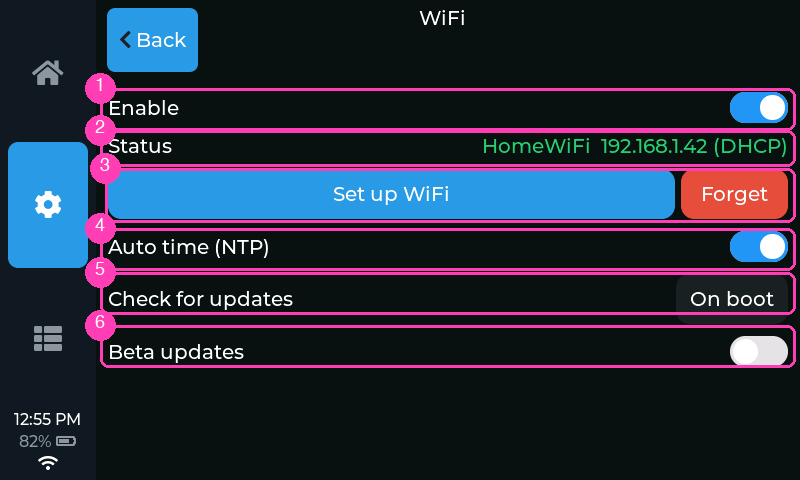
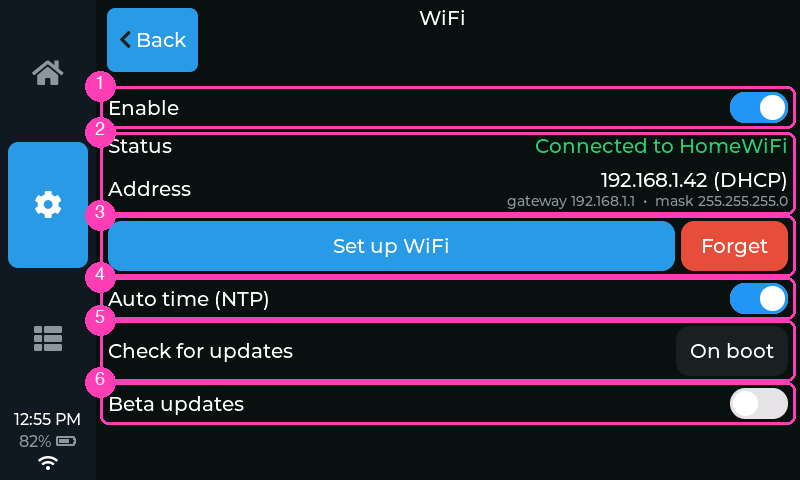
wifi page: Status is the state, a new Address row holds IP, gateway and mask
"HomeWiFi  192.168.1.42 (DHCP)" plus a second line of gateway/mask read as
strings lumped together (owner, bench, 2026-09-30). Now: Status says
"Connected to <ssid>" (or Off / Connecting / Connection failed) and an
Address row, shown only while connected, carries "<ip> (DHCP|static)" with
the gateway and mask beneath in the small muted font — for DHCP too, so it
says what the router handed out. One row more than before; the page still
clears the bottom at 800x480. Manual, changelog and the doc image's callouts
follow.

Changed region(s): [[0.0938, 0.25, 1.0, 0.9062], [0.125, 0.1562, 1.0, 0.1875]]

diff --git a/src/ui/app.cpp b/src/ui/app.cpp
@@ -4253,8 +4253,9 @@ void App::update_settings_view() {
         else lv_obj_remove_state(settings_.wifi_switch, LV_STATE_CHECKED);
       }
     }
-    char buf[128];
+    char buf[64];
     uint32_t color = ui::theme::muted();
+    const bool connected = network_->status() == core::NetState::Connected;
     switch (network_->status()) {
       case core::NetState::Disabled:
         std::snprintf(buf, sizeof(buf), "Off");
@@ -4263,16 +4264,7 @@ void App::update_settings_view() {
         std::snprintf(buf, sizeof(buf), "Connecting" LV_SYMBOL_WIFI);
         break;
       case core::NetState::Connected:
-        // How the address was assigned, and for a static one the gateway and
-        // mask on a second line — the portal is the only place they're set,
-        // so this is where a wrong entry shows up.
-        if (network_->static_ip()) {
-          std::snprintf(buf, sizeof(buf), "%s  %s (static)\ngateway %s  mask %s",
-                        network_->ssid(), network_->ip(), network_->gateway(),
-                        network_->netmask());
-        } else {
-          std::snprintf(buf, sizeof(buf), "%s  %s (DHCP)", network_->ssid(), network_->ip());
-        }
+        std::snprintf(buf, sizeof(buf), "Connected to %s", network_->ssid());
         color = ui::theme::ok();
         break;
       case core::NetState::Failed:
@@ -4282,6 +4274,23 @@ void App::update_settings_view() {
     }
     ui::set_text(settings_.wifi_status, buf);
     ui::set_text_color(settings_.wifi_status, color);
+    // Address row: IP + how it was assigned, gateway and mask beneath. The
+    // portal is the only place a static one is entered, so this is where a
+    // wrong entry shows up; for DHCP it says what the router handed out.
+    if (settings_.wifi_addr_row != nullptr) {
+      if (connected) {
+        char addr[48], sub[72];
+        std::snprintf(addr, sizeof(addr), "%s (%s)", network_->ip(),
+                      network_->static_ip() ? "static" : "DHCP");
+        std::snprintf(sub, sizeof(sub), "gateway %s  " LV_SYMBOL_BULLET "  mask %s",
+                      network_->gateway(), network_->netmask());
+        ui::set_text(settings_.wifi_addr_value, addr);
+        ui::set_text(settings_.wifi_addr_sub, sub);
+        lv_obj_remove_flag(settings_.wifi_addr_row, LV_OBJ_FLAG_HIDDEN);
+      } else {
+        lv_obj_add_flag(settings_.wifi_addr_row, LV_OBJ_FLAG_HIDDEN);
+      }
+    }
   }
 
   // Backup page: say what is actually on the card, and grey Restore when there

diff --git a/src/ui/settings_tab.cpp b/src/ui/settings_tab.cpp
@@ -386,10 +386,28 @@ void build_device_wifi_rows(lv_obj_t* page, const lv_font_t* text_font,
   out.wifi_status = lv_label_create(rst);
   lv_obj_set_style_text_color(out.wifi_status, lv_color_hex(ui::theme::muted()), 0);
   lv_obj_set_style_text_font(out.wifi_status, text_font, 0);
-  // Two lines for a static address (gateway + mask beneath), right-aligned so
-  // both lines hug the row's edge.
-  lv_obj_set_style_text_align(out.wifi_status, LV_TEXT_ALIGN_RIGHT, 0);
   lv_label_set_text(out.wifi_status, "Off");
+
+  // Address: the IP with how it was assigned, and beneath it, smaller and
+  // muted, the gateway and mask the network actually applied. Shown only
+  // while connected (App hides the row otherwise) so the page stays short.
+  out.wifi_addr_row = make_setting_row(page, "Address", text_font);
+  lv_obj_t* col = lv_obj_create(out.wifi_addr_row);
+  lv_obj_remove_style_all(col);
+  lv_obj_remove_flag(col, LV_OBJ_FLAG_SCROLLABLE);
+  lv_obj_set_size(col, LV_SIZE_CONTENT, LV_SIZE_CONTENT);
+  lv_obj_set_flex_flow(col, LV_FLEX_FLOW_COLUMN);
+  lv_obj_set_flex_align(col, LV_FLEX_ALIGN_CENTER, LV_FLEX_ALIGN_END, LV_FLEX_ALIGN_END);
+  lv_obj_set_style_pad_row(col, ui::dp(2), 0);
+  out.wifi_addr_value = lv_label_create(col);
+  lv_obj_set_style_text_color(out.wifi_addr_value, lv_color_hex(ui::theme::text()), 0);
+  lv_obj_set_style_text_font(out.wifi_addr_value, text_font, 0);
+  lv_label_set_text(out.wifi_addr_value, "");
+  out.wifi_addr_sub = lv_label_create(col);
+  lv_obj_set_style_text_color(out.wifi_addr_sub, lv_color_hex(ui::theme::muted()), 0);
+  lv_obj_set_style_text_font(out.wifi_addr_sub, ui::font_dp(14), 0);
+  lv_label_set_text(out.wifi_addr_sub, "");
+  lv_obj_add_flag(out.wifi_addr_row, LV_OBJ_FLAG_HIDDEN);
 
   // Set up / Forget buttons share a row (mirrors the connection panel's actions).
   lv_obj_t* rb = lv_obj_create(page);

diff --git a/include/ui/settings_tab.h b/include/ui/settings_tab.h
@@ -245,7 +245,10 @@ struct SettingsWidgets {
 
   // --- WiFi (station + NTP time) ---
   lv_obj_t* wifi_switch = nullptr;      // enable/disable joining home WiFi
-  lv_obj_t* wifi_status = nullptr;      // "Connected  192.168.1.42" / "Not connected"
+  lv_obj_t* wifi_status = nullptr;      // "Connected to HomeWiFi" / "Off" / "Connecting"
+  lv_obj_t* wifi_addr_row = nullptr;    // Address row (hidden unless connected):
+  lv_obj_t* wifi_addr_value = nullptr;  //   "192.168.1.42 (DHCP)"
+  lv_obj_t* wifi_addr_sub = nullptr;    //   "gateway 192.168.1.1 · mask 255.255.255.0"
   lv_obj_t* wifi_setup_btn = nullptr;   // "Set up" -> AP credential portal
   lv_obj_t* wifi_forget_btn = nullptr;  // clear saved credentials
   lv_obj_t* tz_dropdown = nullptr;      // timezone picker (POSIX TZ under the

diff --git a/MANUAL.md b/MANUAL.md
@@ -588,10 +588,11 @@ page fits on screen with little to no scrolling.
 
 - ① **Enable** *(default off)* — join your home network. Used only for NTP time
   sync; all machine/scale control is local Bluetooth.
-- ② **Status** — `Off`, `Connecting`, or the network name and IP address with
-  how it was assigned, *(DHCP)* or *(static)*; a static address also lists
-  the gateway and subnet mask on a second line, so a wrong entry is visible
-  here without opening the portal.
+- ② **Status** — `Off`, `Connecting`, `Connected to ⟨network⟩`, or
+  `Connection failed`. While connected an **Address** row appears beneath it
+  with the IP and how it was assigned, *(DHCP)* or *(static)*, and the
+  gateway and subnet mask in use — so a wrong static entry is visible here
+  without opening the portal.
 - ③ **Set up WiFi** — starts the device's own access point (`Micra-Setup`) and
   setup page for entering credentials (same flow as token entry: scan the
   QR code on the screen with your phone's camera and the page pops up on its

diff --git a/CHANGELOG.md b/CHANGELOG.md
@@ -37,8 +37,8 @@ maps — plain ASCII plus `— – → … × ' "` — or they render as empty b
   battery.
 - **Static IP address.** The WiFi setup page offers a network address
   choice: automatic (DHCP) as before, or static with IP, subnet mask, gateway
-  and optional DNS. Stats → Info and the WiFi page's Status row show which
-  one is in use, and Status lists the gateway and mask for a static one.
+  and optional DNS. Stats → Info and the WiFi page show which one is in
+  use; the WiFi page's Address row also lists the gateway and mask.
   Change it by running Set up WiFi again; the page pre-fills what is stored.
 - **Scheduled turn-on after a lost connection.** If the Micra's Bluetooth
   link dropped overnight, the device used to wait for a touch before
